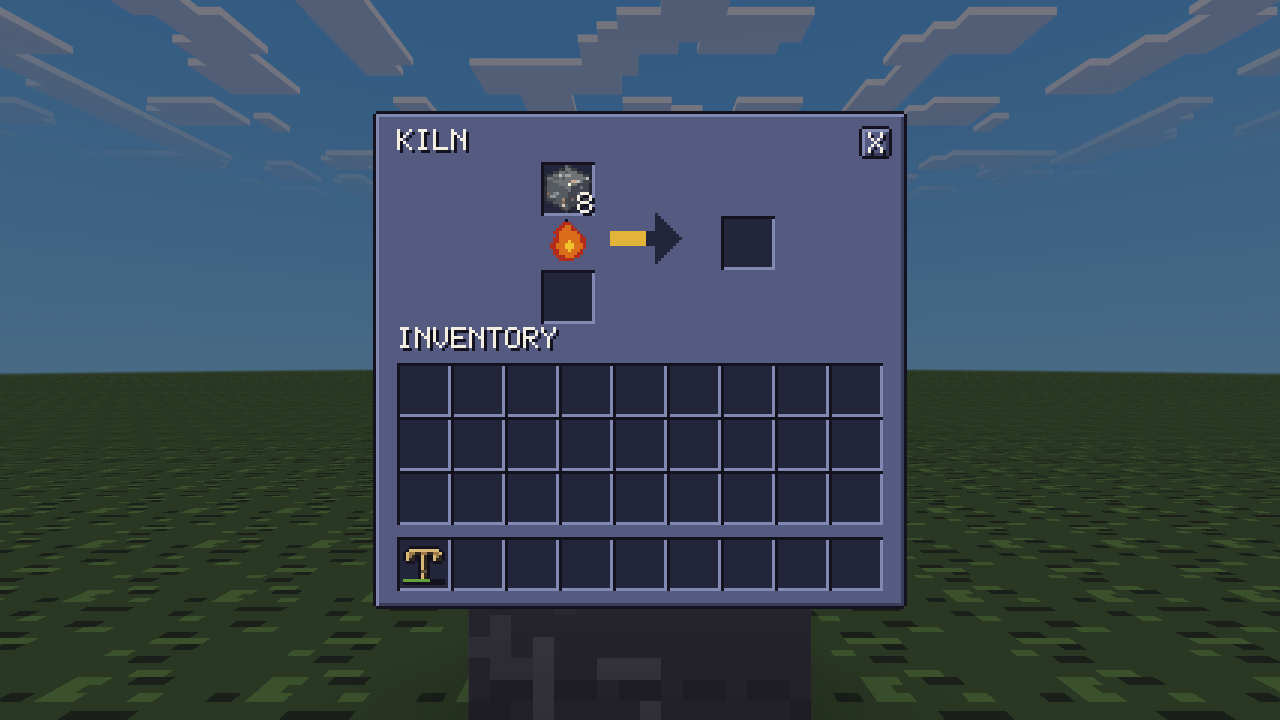
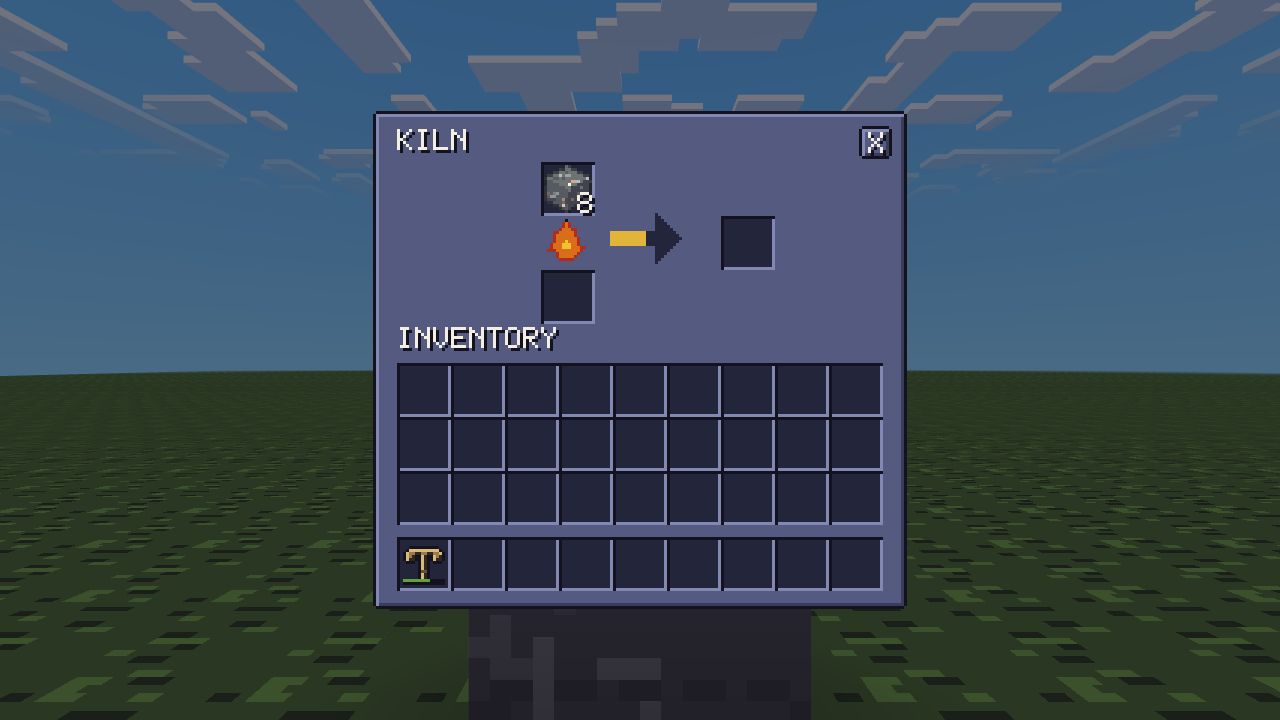
M10c: handoff notes, decisions and screenshots after merge with master
Claude-Session: https://claude.ai/code/session_018MnMXAYrZYkVyhcs854hHa

diff --git a/progress/M10c.md b/progress/M10c.md
@@ -1,8 +1,9 @@
 # M10c — Kiln & tool wear
 
 Status: verified
+Builder: continued by Claude on branch `claude/m10c` (started by agy on `agy/m10c`, draft PR #56, superseded by the new PR)
 Depends on: M10a
-Quick verify (this session): typecheck ✓ · lint ✓ · placeholders ✓ · unit 95 files / 763 passed · e2e 4 passed (tests/e2e/m10c.spec.ts) · console errors 0
+Full verify (this session): typecheck ✓ · lint ✓ · placeholders ✓ · unit 790 passed (97 files) · e2e 112 passed · console errors 0
 
 ## Acceptance criteria owned
 
@@ -13,8 +14,8 @@ Quick verify (this session): typecheck ✓ · lint ✓ · placeholders ✓ · un
 
 ## Screenshots (docs/screenshots/M10c/)
 
-- `m10-kiln.png`: The Kiln UI open in survival mode mid-smelt against a grassy landscape and sky with clouds, showing 8 iron ore in the input slot, a lit burning 3-layer teardrop flame icon between input and fuel, the progress arrow filled exactly 50% toward the output slot, empty output slot waiting for the ingot, and hotbar slot 0 below showing a wooden pickaxe with a visible wear durability bar.
-- `m10-kiln-flame.png`: Side-by-side zoomed comparison of the redesigned 14×14 flame indicator on panel background; the left shows the flame at full fuel (100%) with outer red, middle orange, and inner yellow teardrop core layers and flickering wisps, while the right shows ~half fuel (50%) with the top half depleted showing the dark inset outline and the bottom half actively burning.
+- `m10-kiln.png`: The kiln panel over a flat grass world and cloudy sky: 8 iron ore in the input slot, a lit flame (red outline, orange body, small yellow teardrop core) beside the input, the progress arrow half filled in yellow, empty fuel and output slots, an empty inventory grid and a wooden pickaxe with a green wear bar in hotbar slot 1.
+- `m10-kiln-flame.png`: Three flicker frames of the flame at full fuel (top row) and half fuel (bottom row) on the panel colour; each is a ragged teardrop with a red edge, orange fill and a small yellow teardrop core, with a small tongue at the edge that moves between frames; at half fuel the top half is a dark outline and the bottom half still burns.
 
 ## What was built
 
@@ -24,11 +25,11 @@ Quick verify (this session): typecheck ✓ · lint ✓ · placeholders ✓ · un
    - Data-driven lighting: `"lightEmissionWhen": { "lit": "true", "value": 13 }` emitting light 13 only when lit.
    - Textures: `front`, `front_lit`, `top`, `side`, and `bottom` using procedural generators in `src/render/textures/kiln.ts`.
    - Item definition `data/items/kiln.json`, loot definition `data/loot/kiln.json` (self-drop), recipe `data/recipes/kiln.json` (8 cobblestone ring).
-   - Block break spilling: contents spilled as item entities in the world (`PlayerController.onBreak`).
+   - Block break spilling: `spillKilnContents` (src/gameplay/kiln.ts) runs from M10b's `onBreakBeforeRemove` hook, next to chest spilling; a full item pool refuses the break.
 2. **State IDs (`data/block-state-ids.json`)**:
-   - Restored `blue_stained_glass` through `yellow_stained_glass` to their original IDs `137..144` as on master.
-   - Appended the 8 kiln states after the stained glass states at IDs `145..152`.
-   - Verified append-only table invariant; updated `tests/unit/m08c-glass-foliage.test.ts` to assert stained glass at 137..144.
+   - Master's entries are kept exactly (they end at 533, after M10b's workbench/chest and BLOCKS-shapes' stairs/fences/doors/trapdoors).
+   - Appended the 8 kiln states at IDs `534..541` (`kiln[facing=east,lit=false]` = 534 … `kiln[facing=west,lit=true]` = 541).
+   - `tests/unit/m08c-glass-foliage.test.ts` is master's version, unmodified.
 3. **Core Decoupling & Kiln block entity (`src/gameplay/kiln.ts`, `src/world/block-entities.ts`, `src/main.ts`)**:
    - Decoupled `src/world/block-entities.ts` by removing kiln import and registration.
    - Runtime startup registration in `src/main.ts` via `registerKilnBlockEntity()`.
@@ -47,8 +48,8 @@ Quick verify (this session): typecheck ✓ · lint ✓ · placeholders ✓ · un
    - Kiln stores XP per smelt and disburses it when output is collected.
 6. **Kiln screen UI & Flame Redesign (`src/ui/kiln-screen.ts`, `src/ui/kiln-layout.ts`)**:
    - 39-slot UI panel with input, fuel, output slots, 27 inventory slots, and 9 hotbar slots.
-   - Redesigned 3-layer animated teardrop flame: outer RED (`#b32b1b`), middle ORANGE (`#d96d1a`), and inner YELLOW core (`#f2c12e`) in the lower-middle.
-   - Subtly shifts flame wisps across 3 animation frames while burning.
+   - Ragged teardrop flame: outer RED (`#b32b1b`), ORANGE body (`#d96d1a`) and a small YELLOW teardrop core (`#f2c12e`).
+   - 3 animation frames move the tip and 1–2 small flickering tongues on the outer edge while burning.
    - Shrinks smoothly from top down as fuel is depleted.
    - Renders empty dark outline (`UI.outline` edge, `UI.slot` interior) when unlit or depleted.
    - Animated horizontal progress arrow indicating cook progress (`cookProgress / 200`).
@@ -72,6 +73,10 @@ Quick verify (this session): typecheck ✓ · lint ✓ · placeholders ✓ · un
 
 ## Notes for dependent tasks
 
-- **Kiln UI & Interaction**: Kiln opens on right-click in survival via `onInteract` in `block-interaction.ts`. The UI is registered as screen `'kiln'` in `UiManager`.
+- **Kiln UI & Interaction**: Kiln opens through M10b's `onUse` hook (`playerController.onUseBlock` in `main.ts`, which calls `UiManager.openKiln`). The UI is screen `'kiln'` in `UiManager`; `openScreen('kiln')` opens the nearest kiln within reach.
 - **Tool Durability**: Access tool damage via `stack.damage ?? 0`. Tools break when `stack.damage >= getToolDurability(stack.id)`.
 - **XP API**: Use `addXp(player, points)` from `src/gameplay/xp.ts` for awarding player XP.
+
+## Merge with master (builder change)
+
+The builder changed from agy to Claude. `claude/m10c` is `agy/m10c` plus a merge of `origin/master` (M10b #55, BLOCKS-shapes #54). Conflict resolutions are in decisions/M10c-kiln-tools.md §10. Tests changed: only `tests/e2e/m10c.spec.ts` (flame screenshot now draws the three frames) and the kiln state IDs in the data file.

diff --git a/decisions/M10c-kiln-tools.md b/decisions/M10c-kiln-tools.md
@@ -143,3 +143,13 @@
 - **Visual Review Screenshots**:
   - `docs/screenshots/M10c/m10-kiln.png`: Mid-smelt kiln UI with new teardrop flame and damaged wooden pickaxe wear bar in hotbar.
   - `docs/screenshots/M10c/m10-kiln-flame.png`: Side-by-side zoomed comparison of the flame at full fuel vs ~half fuel.
+
+## 10. Merge with master and builder change
+
+- The builder changed from agy to Claude. Branch `claude/m10c` = `agy/m10c` + merge of `origin/master` (M10b workbench/chest/crafting #55, BLOCKS-shapes #54). It supersedes draft PR #56.
+- **State IDs:** master's table is kept exactly (ends at 533). The 8 kiln states are appended at `534..541` (superseding `145..152` above). `tests/unit/m08c-glass-foliage.test.ts` is master's version.
+- **Interaction:** the kiln-specific `onInteract`/`onBreak(blockEntity)` paths were dropped for M10b's generic hooks. Opening: `onUse` (wired in `main.ts`) → `UiManager.openKiln`. Spilling: `onBreakBeforeRemove` → `spillKilnContents`, with the same full-pool refusal as chests. Tool wear stays in `onBreak`; harvest-level gating still goes through `canHarvest`. Door/trapdoor toggling and `removeShapeBlock` from BLOCKS-shapes are unchanged.
+- **Placement facing:** the kiln's facing from the player's yaw is applied before shape placement in `BlockInteraction.place`.
+- **UI:** `ui-manager.ts` is master's, with the `'kiln'` screen added next to crafting/chest (own layout, slot mapping 3..38 → inventory 0..35, click handler from agy).
+- **Flame:** now a ragged teardrop (red edge, orange body, small yellow teardrop core) with 3 frames moving the tip and 1–2 edge tongues.
+- Fix-round items re-checked after the merge: kiln registered in `main.ts` not `world/block-entities.ts`; front/front_lit textures data-driven (no `'kiln'` in the registry or icons); per-state light via `lightEmissionWhen`; iron/copper/gold smelting recipes kept.
